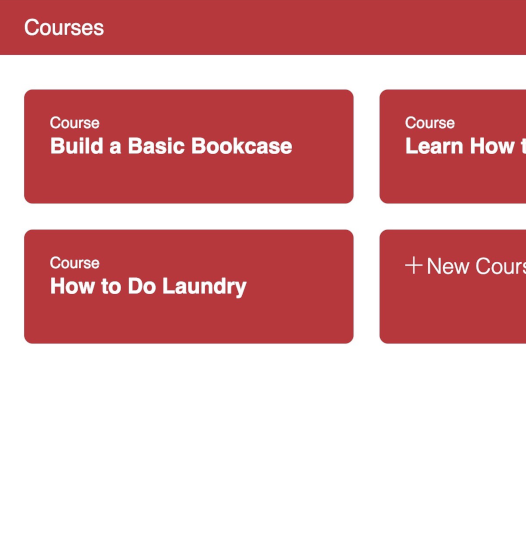
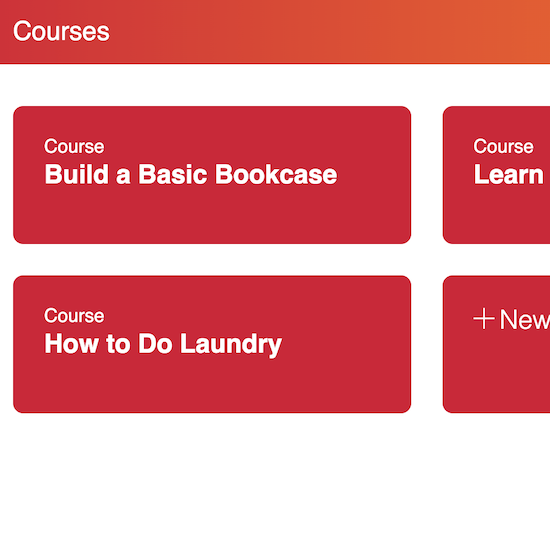
Update course-directory.md

diff --git a/src/projects/course-directory.md b/src/projects/course-directory.md
@@ -4,7 +4,7 @@ stack: React, Node.js & Express
 slug: course-directory
 date: 2023-08-03
 thumb: ../images/thumbs/courses-directory-thumb.png
-featuredImage: ../images/featured/courses-directory-banner.jpg
+featuredImage: ../images/featured/courses-directory-detail-banner.png
 
 ---
 
